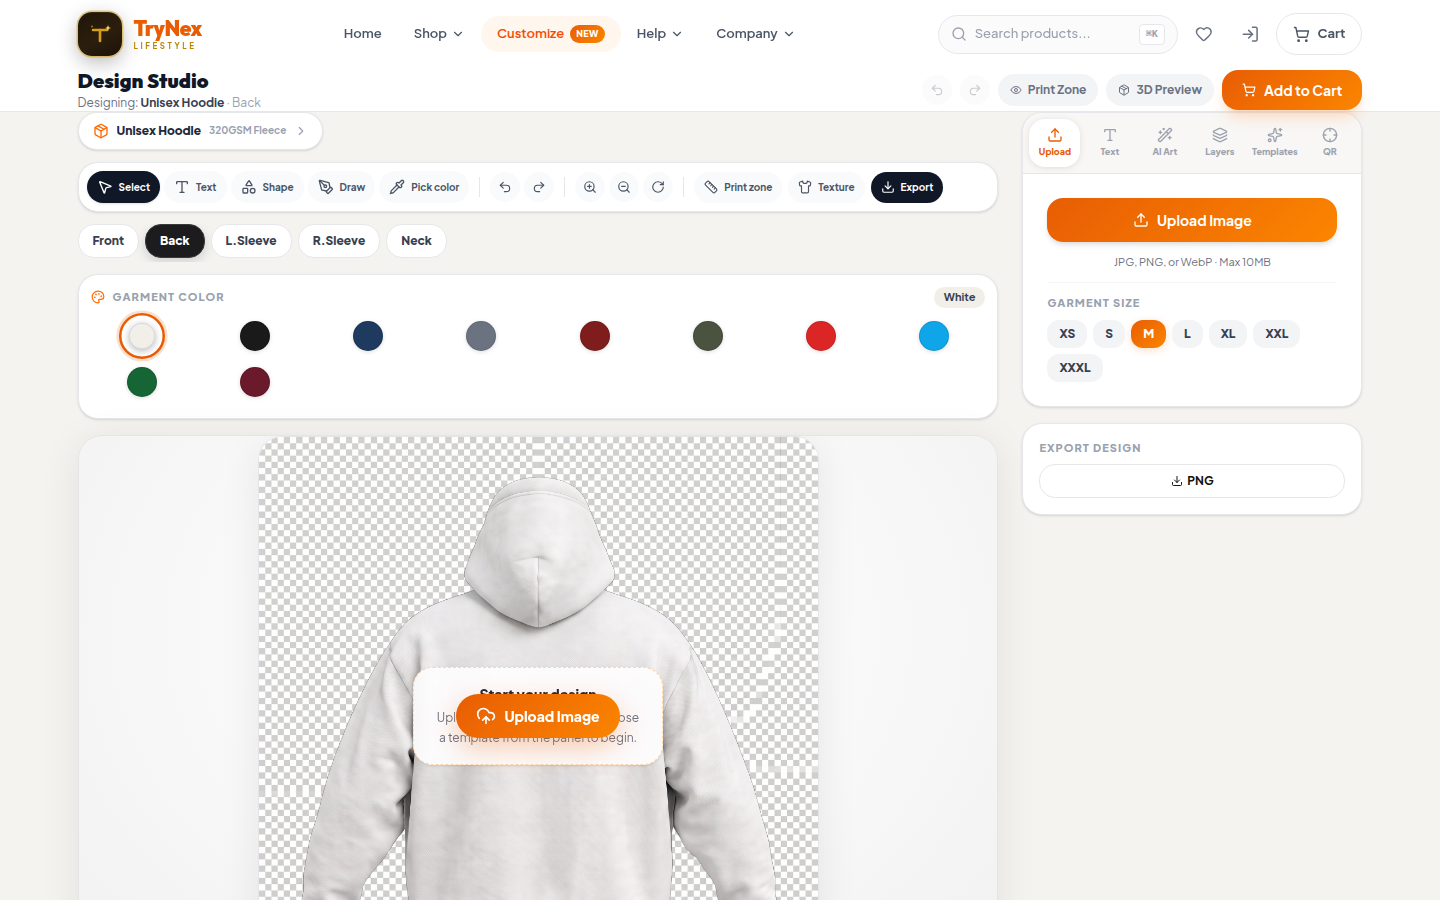
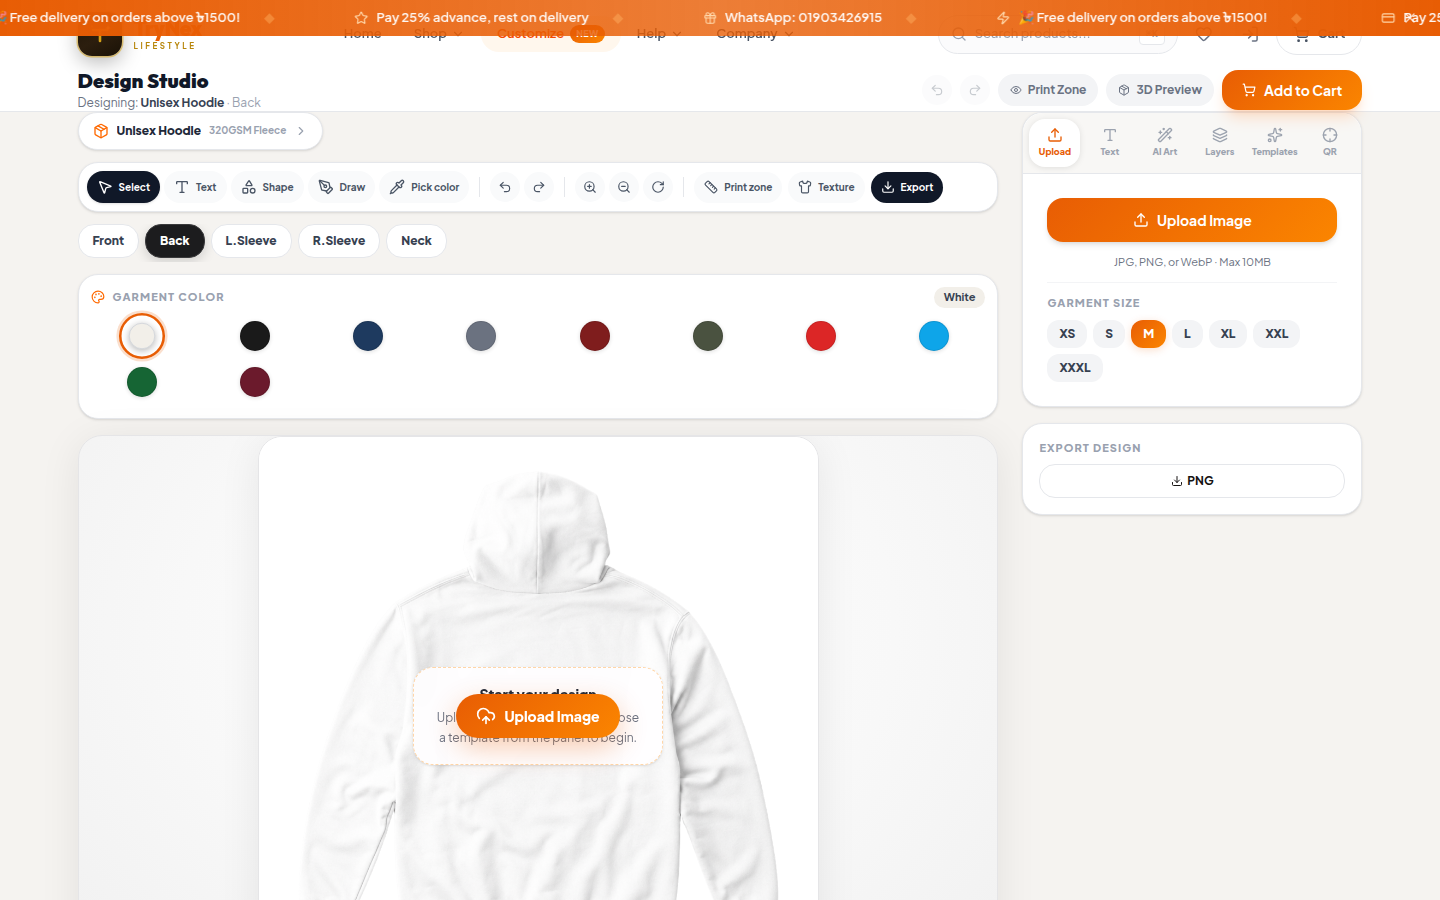
docs: record final mockup and e2e verification

Changed region(s): [[0.1562, 0.4667, 0.5938, 1.0], [0.0, 0.0, 1.0, 0.0622]]

diff --git a/docs/E2E_FLOW_AND_MOCKUP_AUDIT_2026-08-17.md b/docs/E2E_FLOW_AND_MOCKUP_AUDIT_2026-08-17.md
@@ -26,3 +26,10 @@ Cloudflare Pages project `trynex-lifestyle-shop` is connected to GitHub reposito
 
 
 A harmless deployment-trigger commit is being used because the GitHub-connected Pages project has not created a deployment for `9839ee797` even though its source checks passed. This does not alter application behavior; it only asks the existing production-branch integration to process the validated main-branch state again.
+
+
+## Final production verification
+
+Cloudflare Pages deployment `25fee640-fe34-454f-9d6e-a23e26312055` completed successfully for commit `60a4c2ea215670a2690c07d3967d13d41663d236`. The production diagnostic now resolves the hoodie front to `/mockups/source-kit-v3/hoodie/white/front.png?v=smart-v3`; the former `/mockups/canonical/hoodie/white/front.png?v=canonical-v1` checkerboard asset is no longer active. Final front and back screenshots show the white hoodie on a clean white studio canvas with no baked checkerboard and consistent front/back proportions.
+
+The final production E2E run passed all assertions: S/Navy option selection, Add to Bag transition, empty-cart checkout guard to `/cart`, and Studio V2 Back/Navy/3D Preview interactions. No payment or production order was submitted.
